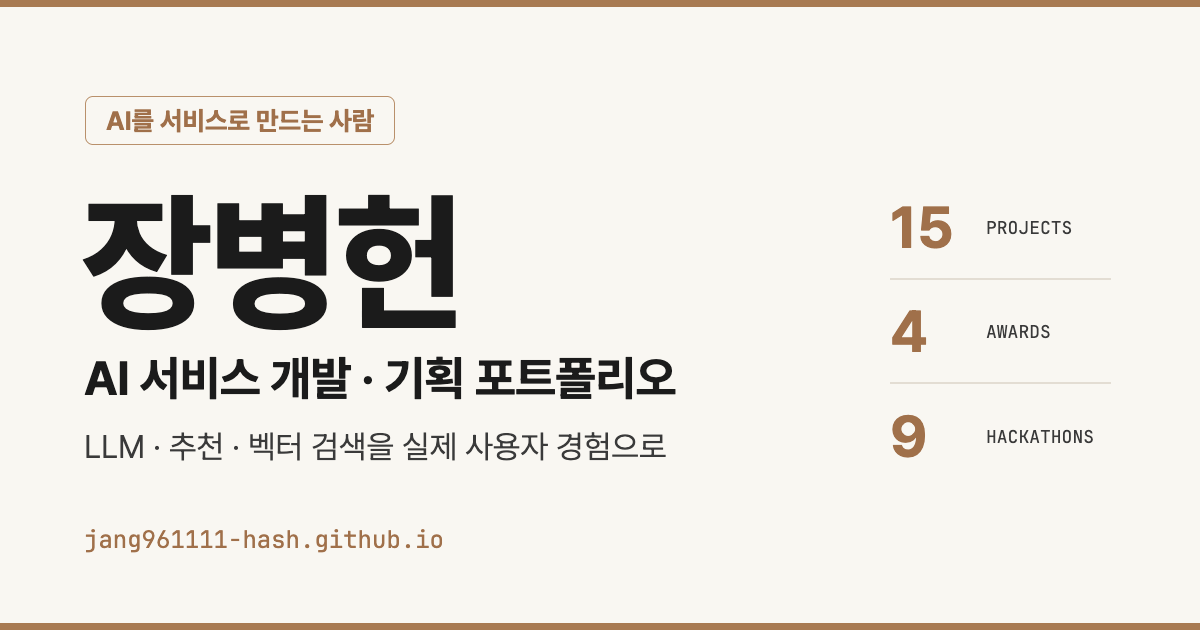
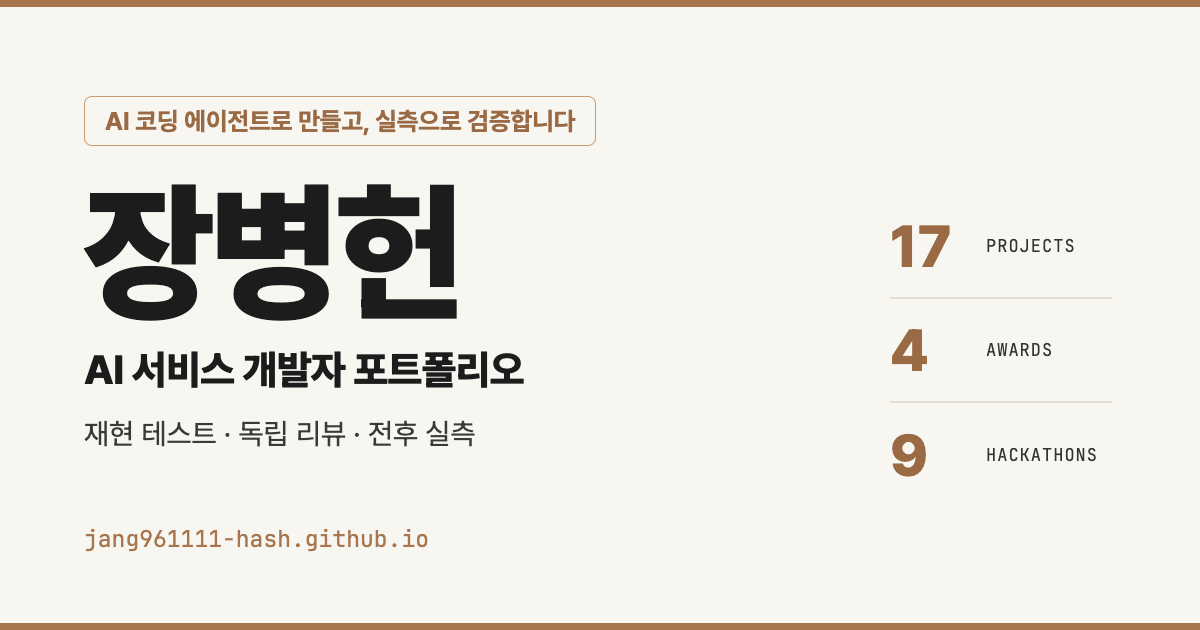
feat(hero,meta): 'AI 서비스 개발자' 포지셔닝으로 히어로·메타 일관 갱신
- 히어로 타이틀·부제·미션·증거 3개를 실측 수치(측정 조건 병기)로 교체 (ko/en)
- 소개 2문단·일하는 방식 칩을 에이전트 개발 + 검증 방식으로 갱신 (키 유지)
- metadata.js, index.html(og/twitter), manifest.json, smoke_check 기대 타이틀, 테스트 기대 타이틀 동기화
- og-image 재생성 (17 projects, 새 타이틀)

diff --git a/public/index.html b/public/index.html
@@ -35,12 +35,12 @@
     <meta name="color-scheme" content="light dark" />
     <meta
       name="description"
-      content="LLM·추천·벡터 검색을 실제 사용자 경험으로 구현해본 AI 서비스 개발자 장병헌의 포트폴리오. 문제 정의(기획)부터 React 구현까지 한 사이클을 완주합니다."
+      content="AI 코딩 에이전트로 만들고 재현 테스트·독립 리뷰·전후 실측으로 검증하는 AI 서비스 개발자 장병헌의 포트폴리오. Spring Boot 동시성 수정, LLM 자가수정 검증 실험, 에이전트 결제 게이트웨이를 측정 조건과 함께 담았습니다."
     />
     <meta name="author" content="Jang Byeong Heon" />
     <meta
       name="keywords"
-      content="장병헌, Jang Byeong Heon, AI 서비스 개발, LLM, Prompt Engineering, React, SSAFY, 서비스 기획, PM, AI Service Developer, Problem Framing"
+      content="장병헌, Jang Byeong Heon, AI 서비스 개발자, AI Service Developer, LLM, AI 코딩 에이전트, Spring Boot, Next.js, React, 동시성, 테스트, SSAFY, SKALA"
     />
     <meta name="robots" content="index,follow" />
     <link rel="canonical" href="https://jang961111-hash.github.io/" />
@@ -52,18 +52,18 @@
     <meta property="og:type" content="website" />
     <meta
       property="og:site_name"
-      content="Jang Byeong Heon | AI Service Development · Planning Portfolio"
+      content="Jang Byeong Heon | AI Service Developer Portfolio"
     />
     <meta property="og:locale" content="ko_KR" />
     <meta property="og:locale:alternate" content="en_US" />
     <meta property="og:url" content="https://jang961111-hash.github.io/" />
     <meta
       property="og:title"
-      content="장병헌 | AI 서비스 개발 · 기획 포트폴리오"
+      content="장병헌 | AI 서비스 개발자 포트폴리오"
     />
     <meta
       property="og:description"
-      content="LLM·추천·벡터 검색을 실제 사용자 경험으로 구현해본 AI 서비스 개발자 장병헌의 포트폴리오. 문제 정의(기획)부터 React 구현까지 한 사이클을 완주합니다."
+      content="AI 코딩 에이전트로 만들고 재현 테스트·독립 리뷰·전후 실측으로 검증하는 AI 서비스 개발자 장병헌의 포트폴리오. Spring Boot 동시성 수정, LLM 자가수정 검증 실험, 에이전트 결제 게이트웨이를 측정 조건과 함께 담았습니다."
     />
     <meta
       property="og:image"
@@ -74,15 +74,15 @@
     <meta property="og:image:height" content="630" />
     <meta
       property="og:image:alt"
-      content="AI Service Development Portfolio Preview"
+      content="AI Service Developer Portfolio Preview"
     />
 
     <!-- Twitter Card -->
     <meta name="twitter:card" content="summary_large_image" />
-    <meta name="twitter:title" content="장병헌 | AI 서비스 개발 · 기획 포트폴리오" />
+    <meta name="twitter:title" content="장병헌 | AI 서비스 개발자 포트폴리오" />
     <meta
       name="twitter:description"
-      content="LLM·추천·벡터 검색을 실제 사용자 경험으로 구현해본 AI 서비스 개발자 장병헌의 포트폴리오. 문제 정의(기획)부터 React 구현까지 한 사이클을 완주합니다."
+      content="AI 코딩 에이전트로 만들고 재현 테스트·독립 리뷰·전후 실측으로 검증하는 AI 서비스 개발자 장병헌의 포트폴리오. Spring Boot 동시성 수정, LLM 자가수정 검증 실험, 에이전트 결제 게이트웨이를 측정 조건과 함께 담았습니다."
     />
     <meta
       name="twitter:image"
@@ -90,7 +90,7 @@
     />
     <meta
       name="twitter:image:alt"
-      content="Jang Byeong Heon | AI Service Development Portfolio"
+      content="Jang Byeong Heon | AI Service Developer Portfolio"
     />
 
     <!--
@@ -134,7 +134,7 @@
       work correctly both with client-side routing and a non-root public URL.
       Learn how to configure a non-root public URL by running `npm run build`.
     -->
-    <title>장병헌 | AI 서비스 개발 · 기획 포트폴리오</title>
+    <title>장병헌 | AI 서비스 개발자 포트폴리오</title>
   </head>
   <body>
     <noscript>You need to enable JavaScript to run this app.</noscript>

diff --git a/src/metadata.js b/src/metadata.js
@@ -5,21 +5,21 @@ export const pageMetadata = {
     htmlLang: "ko",
     locale: "ko_KR",
     path: "/",
-    title: "장병헌 | AI 서비스 개발 · 기획 포트폴리오",
+    title: "장병헌 | AI 서비스 개발자 포트폴리오",
     description:
-      "LLM·추천·벡터 검색을 실제 사용자 경험으로 구현해본 AI 서비스 개발자 장병헌의 포트폴리오. 문제 정의(기획)부터 React 구현까지 한 사이클을 완주합니다.",
+      "AI 코딩 에이전트로 만들고 재현 테스트·독립 리뷰·전후 실측으로 검증하는 AI 서비스 개발자 장병헌의 포트폴리오. Spring Boot 동시성 수정, LLM 자가수정 검증 실험, 에이전트 결제 게이트웨이를 측정 조건과 함께 담았습니다.",
     keywords:
-      "장병헌, Jang Byeong Heon, AI 서비스 개발, LLM, Prompt Engineering, React, SSAFY, 서비스 기획, PM, AI Service Developer, Problem Framing",
+      "장병헌, Jang Byeong Heon, AI 서비스 개발자, AI Service Developer, LLM, AI 코딩 에이전트, Spring Boot, Next.js, React, 동시성, 테스트, SSAFY, SKALA",
   },
   en: {
     htmlLang: "en",
     locale: "en_US",
     path: "/en/",
-    title: "Jang Byeong Heon | AI Service Development · Planning Portfolio",
+    title: "Jang Byeong Heon | AI Service Developer Portfolio",
     description:
-      "Portfolio of Jang Byeong Heon — an AI service builder who has shipped LLM, recommendation, and vector-search features as real user experiences, from problem framing to React implementation.",
+      "Portfolio of Jang Byeong Heon, an AI service developer who builds with AI coding agents and verifies with reproduction tests, independent review, and before/after measurements — Spring Boot concurrency fixes, an LLM self-repair experiment, and an agent payment gateway, with measurement conditions.",
     keywords:
-      "Jang Byeong Heon, AI Service Development, LLM, Prompt Engineering, React, SSAFY, Service Planning, PM, Problem Framing",
+      "Jang Byeong Heon, AI Service Developer, LLM, AI Coding Agent, Spring Boot, Next.js, React, Concurrency, Testing, SSAFY, SKALA",
   },
 };
 

diff --git a/src/App.test.js b/src/App.test.js
@@ -73,7 +73,7 @@ describe("App routing flows", () => {
 
     await waitFor(() => {
       expect(document.title).toBe(
-        "Jang Byeong Heon | AI Service Development · Planning Portfolio"
+        "Jang Byeong Heon | AI Service Developer Portfolio"
       );
     });
 
@@ -101,7 +101,7 @@ describe("App routing flows", () => {
     });
     await waitFor(() => {
       expect(document.title).toBe(
-        "Jang Byeong Heon | AI Service Development · Planning Portfolio"
+        "Jang Byeong Heon | AI Service Developer Portfolio"
       );
     });
   });
@@ -111,7 +111,7 @@ describe("App routing flows", () => {
 
     await waitFor(() => {
       expect(document.title).toBe(
-        "장병헌 | AI 서비스 개발 · 기획 포트폴리오"
+        "장병헌 | AI 서비스 개발자 포트폴리오"
       );
     });
 
@@ -122,7 +122,7 @@ describe("App routing flows", () => {
     });
     await waitFor(() => {
       expect(document.title).toBe(
-        "Jang Byeong Heon | AI Service Development · Planning Portfolio"
+        "Jang Byeong Heon | AI Service Developer Portfolio"
       );
     });
   });
@@ -132,7 +132,7 @@ describe("App routing flows", () => {
 
     await waitFor(() => {
       expect(document.title).toBe(
-        "Jang Byeong Heon | AI Service Development · Planning Portfolio"
+        "Jang Byeong Heon | AI Service Developer Portfolio"
       );
     });
     await waitFor(() => {
@@ -161,7 +161,7 @@ describe("App routing flows", () => {
     });
     await waitFor(() => {
       expect(document.title).toBe(
-        "Jang Byeong Heon | AI Service Development · Planning Portfolio"
+        "Jang Byeong Heon | AI Service Developer Portfolio"
       );
     });
   });
@@ -174,7 +174,7 @@ describe("App routing flows", () => {
     });
     await waitFor(() => {
       expect(document.title).toBe(
-        "장병헌 | AI 서비스 개발 · 기획 포트폴리오"
+        "장병헌 | AI 서비스 개발자 포트폴리오"
       );
     });
   });

diff --git a/scripts/smoke_check.js b/scripts/smoke_check.js
@@ -12,13 +12,13 @@ const routes = [
   {
     path: "/",
     expectedPathname: "/",
-    expectedTitle: "장병헌 | AI 서비스 개발 · 기획 포트폴리오",
+    expectedTitle: "장병헌 | AI 서비스 개발자 포트폴리오",
     expectedStatus: 200,
   },
   {
     path: "/en/",
     expectedPathname: "/en/",
-    expectedTitle: "Jang Byeong Heon | AI Service Development · Planning Portfolio",
+    expectedTitle: "Jang Byeong Heon | AI Service Developer Portfolio",
     expectedStatus: 200,
   },
   {
@@ -36,7 +36,7 @@ const routes = [
   {
     path: "/en/does-not-exist",
     expectedPathname: "/en/",
-    expectedTitle: "Jang Byeong Heon | AI Service Development · Planning Portfolio",
+    expectedTitle: "Jang Byeong Heon | AI Service Developer Portfolio",
     expectedStatus: 200,
     allowConsoleErrors: true,
   },
